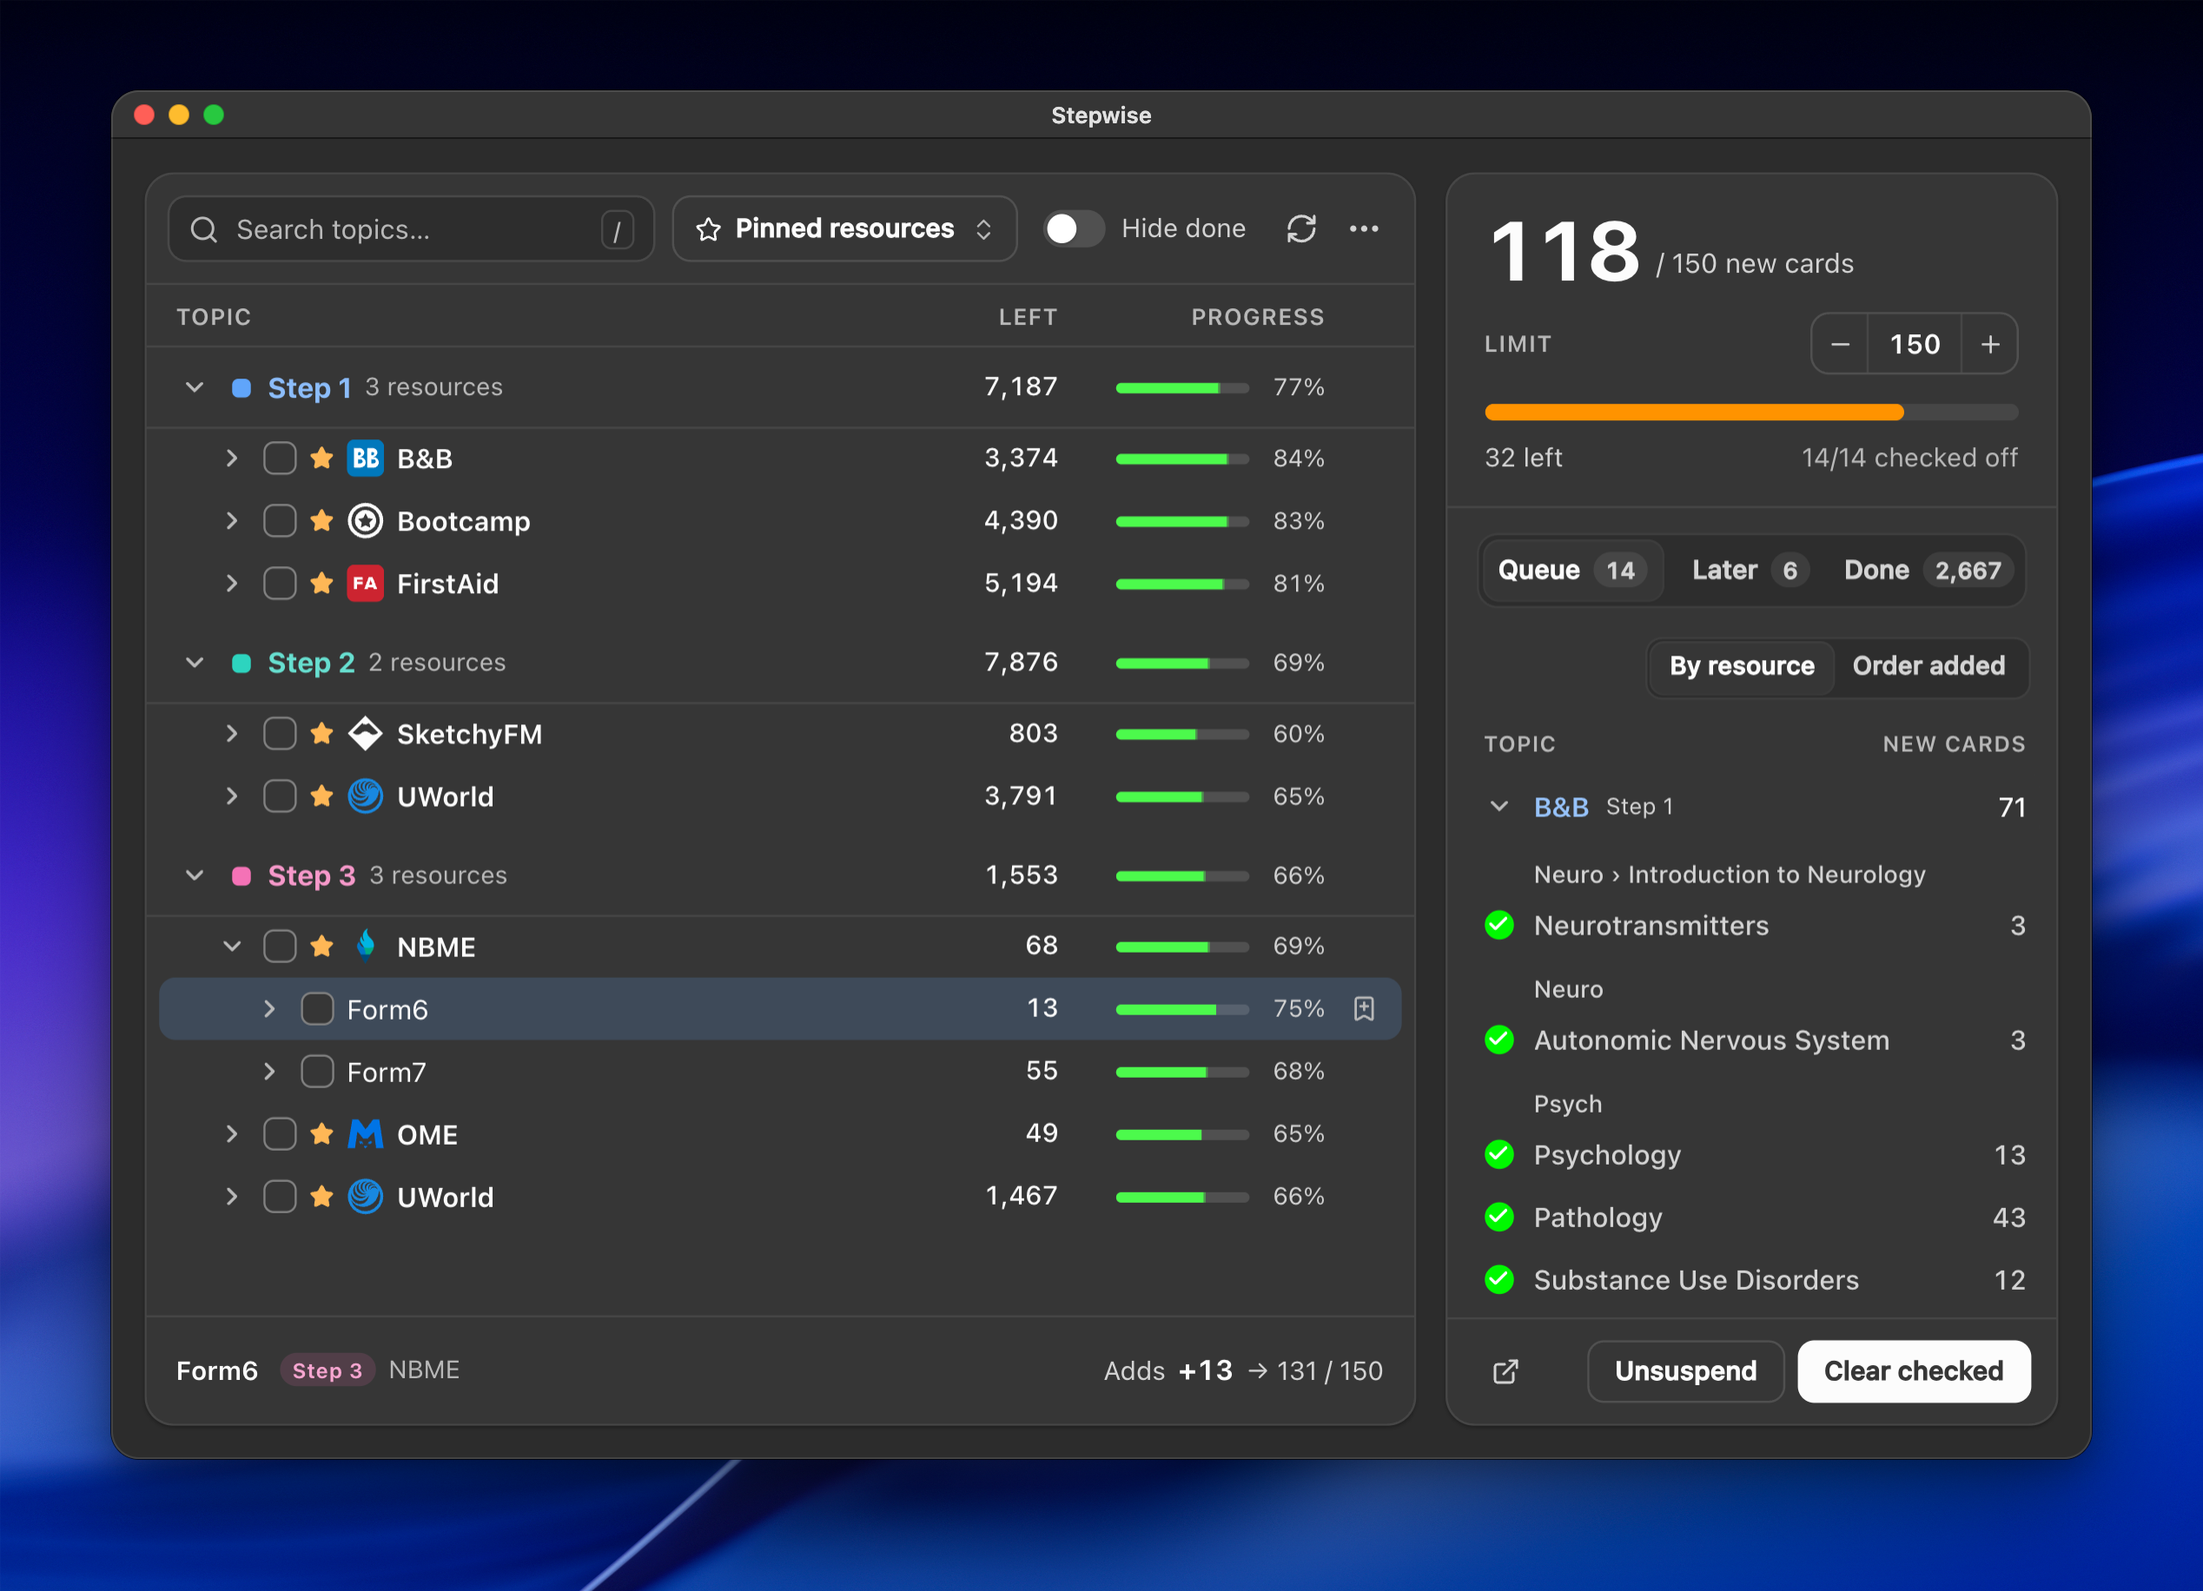
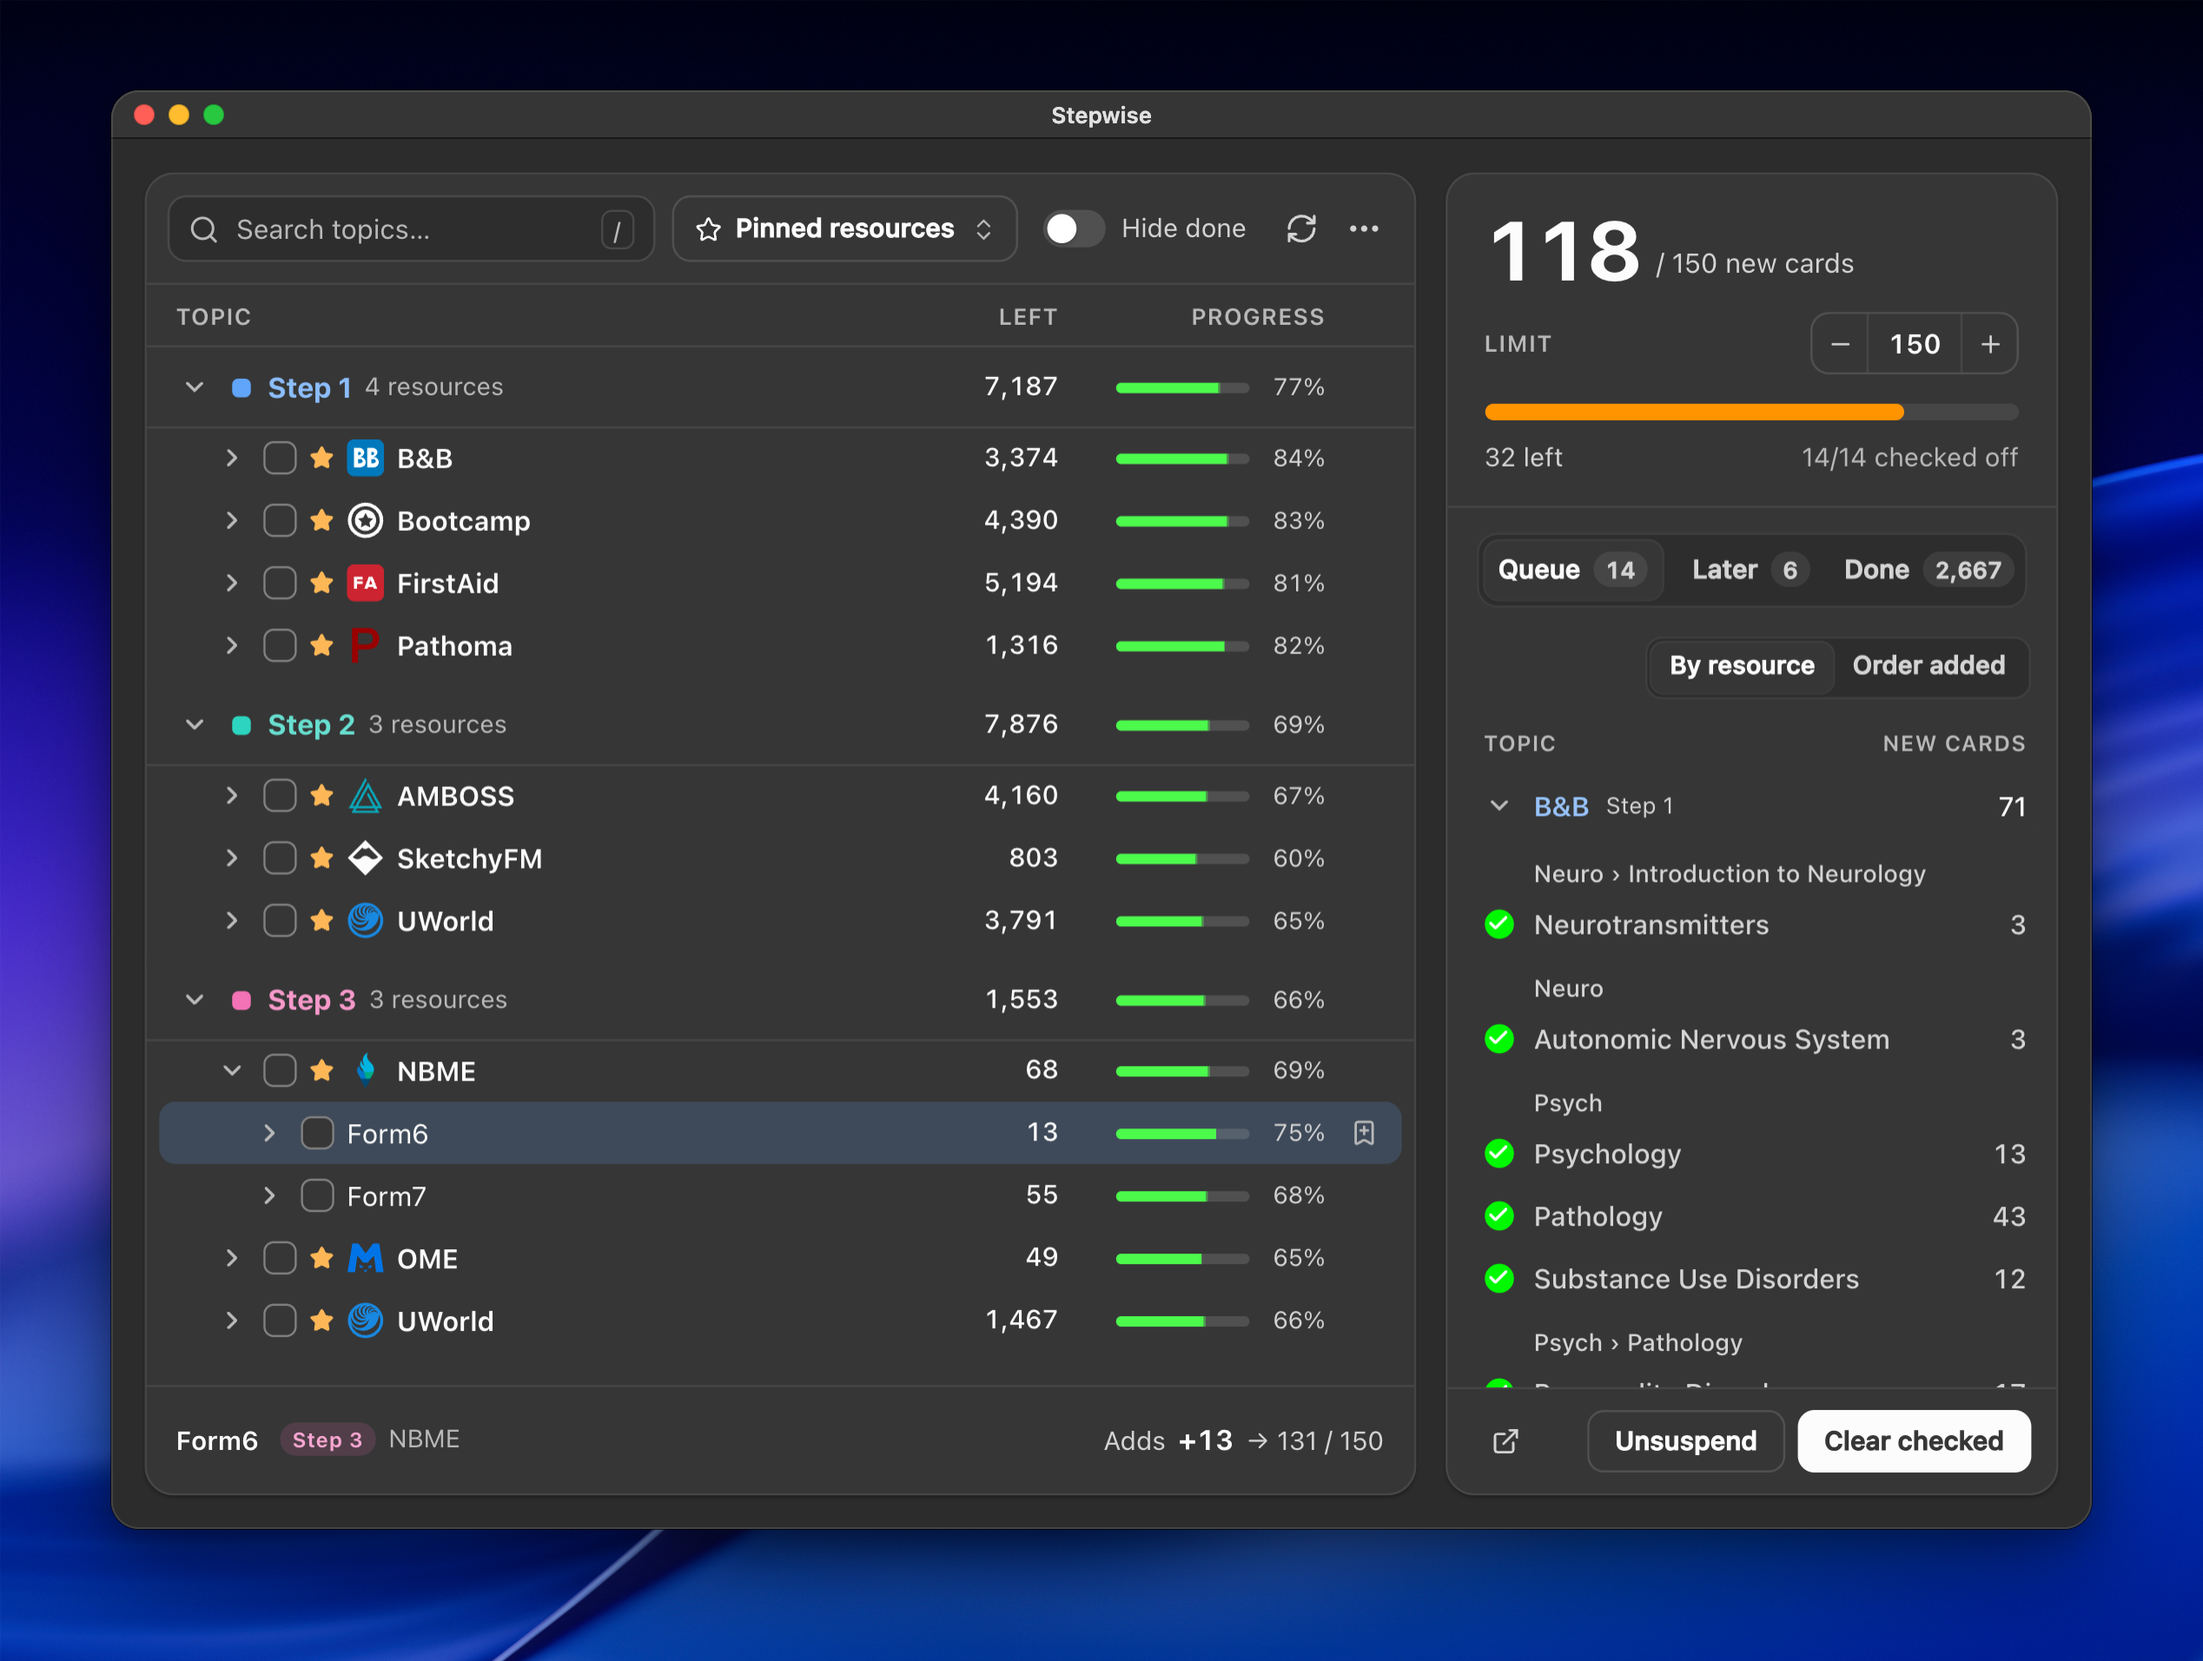
docs: pin Pathoma and AMBOSS in the screenshot too
Ten pinned resources now, for more of their logos: Pathoma in Step 1
and AMBOSS in Step 2. The window is 1140x800, 40 points taller than its
default, so they fit with Step 3's NBME open.

diff --git a/tools/screenshots.py b/tools/screenshots.py
@@ -3,7 +3,7 @@
 
     python3 tools/screenshots.py [--collection PATH] [--capture-wallpaper | --wallpaper PATH]
 
-Writes docs/screenshot.png: the Stepwise window at its default size, drawn
+Writes docs/screenshot.png: the Stepwise window at its default width, drawn
 at 120% (ZOOM, as Cmd+= draws it) so it reads at the listing's width: the
 tag tree on your pinned resources (PINS: a few in each of Step 1, 2 and 3,
 each with its logo), one of them open (OPEN) with its first topic selected,
@@ -35,12 +35,12 @@ KIT = os.environ.get("ANKI_ADDON_KIT", os.path.join(os.path.dirname(ROOT), "anki
 sys.path.insert(0, os.path.join(KIT, "screenshots"))
 import shots  # noqa: E402
 
-SIZE = (1140, 760)  # the window's default size (src/ui.py)
+SIZE = (1140, 800)  # the window's default width (src/ui.py), a little taller for the pinned resources
 ZOOM = 1.2  # how big it draws in that size (the kit's zoom.py, Cmd+=)
 # Pinned, so the tree shows Steps 1, 2 and 3 in one window, a few resources
 # each (and their logos).
-PINS = ["#AK_Step1_v12::#B&B", "#AK_Step1_v12::#Bootcamp", "#AK_Step1_v12::#FirstAid",
-        "#AK_Step2_v12::#SketchyFM", "#AK_Step2_v12::#UWorld",
+PINS = ["#AK_Step1_v12::#B&B", "#AK_Step1_v12::#Bootcamp", "#AK_Step1_v12::#FirstAid", "#AK_Step1_v12::#Pathoma",
+        "#AK_Step2_v12::#AMBOSS", "#AK_Step2_v12::#SketchyFM", "#AK_Step2_v12::#UWorld",
         "#AK_Step3_v12::#NBME", "#AK_Step3_v12::#OME", "#AK_Step3_v12::#UWorld"]
 OPEN = (3, "NBME")  # the resource shown open (Step 3's): two forms, the first small enough to fit the day
 SETUP = """(async () => {
